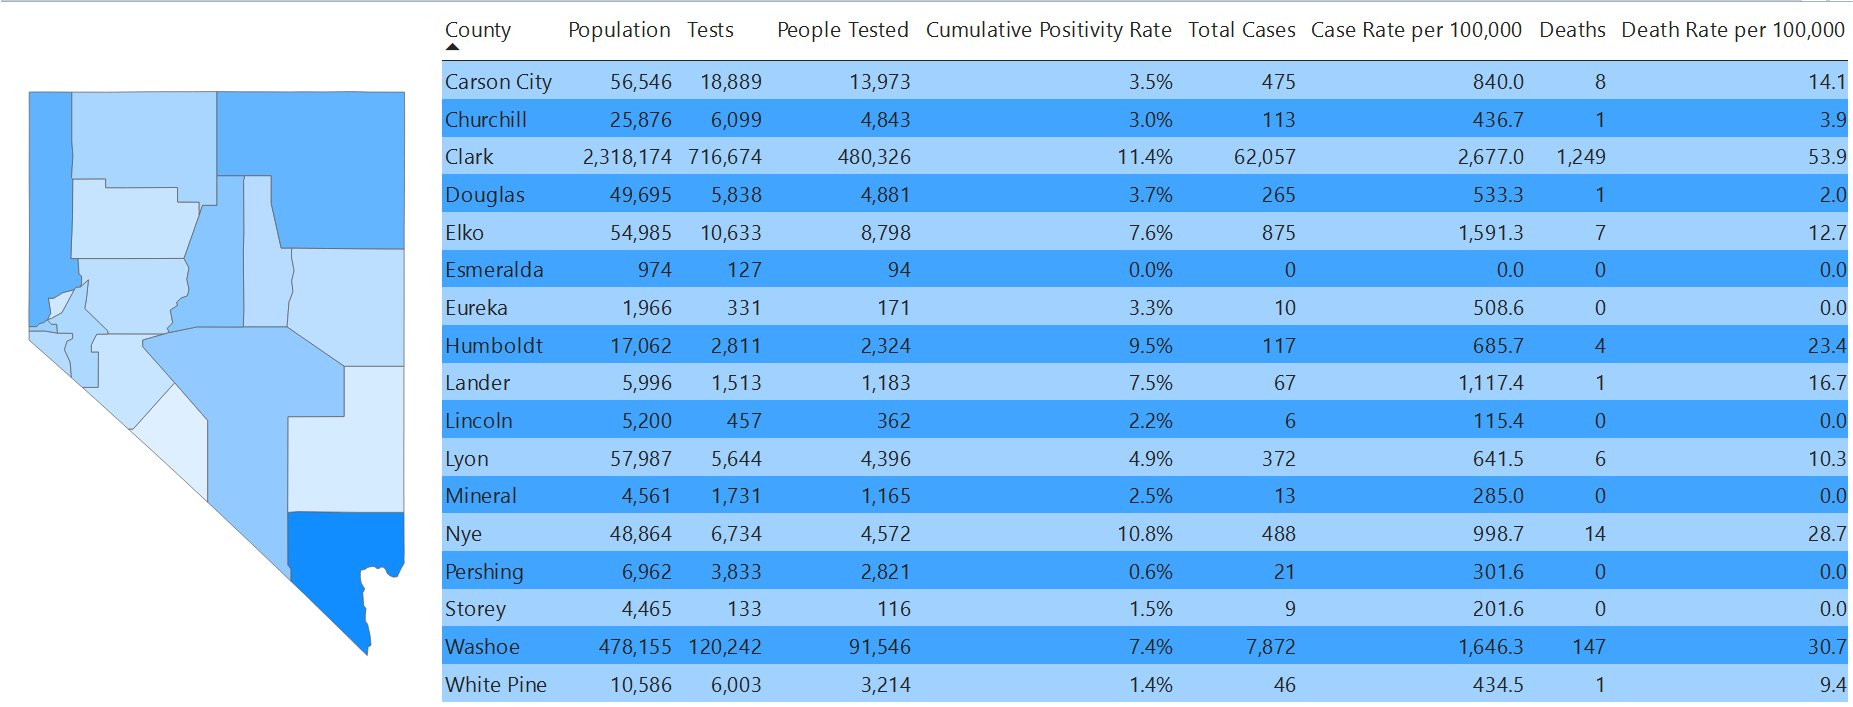
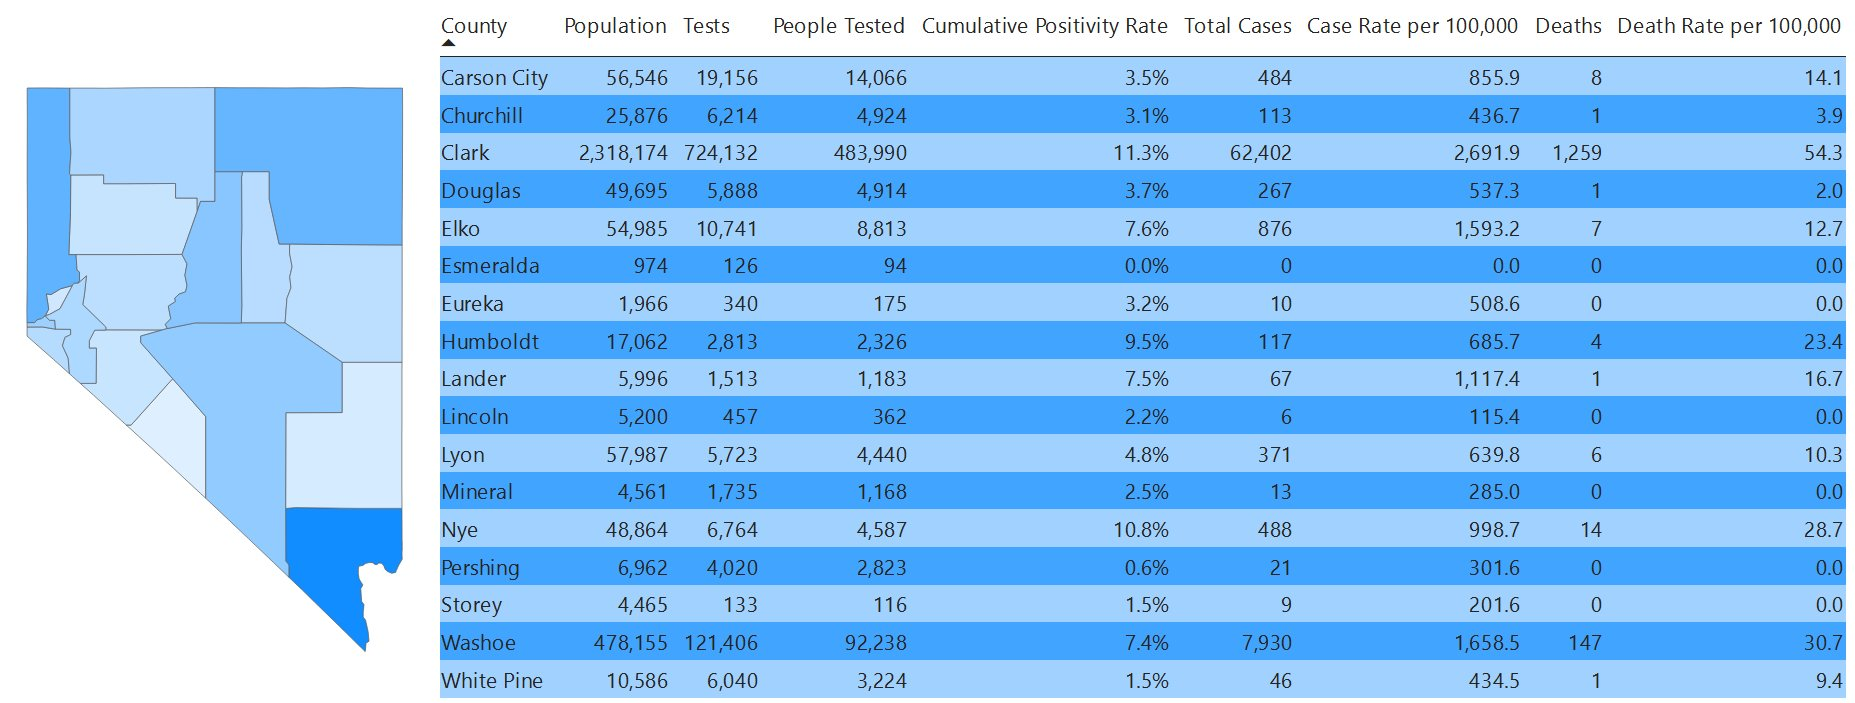
Day 192

diff --git a/src/pages/nevada.js b/src/pages/nevada.js
@@ -205,6 +205,7 @@ class NevadaPage extends Component {
 				'9/08/20',
 				'9/09/20',
 				'9/10/20',
+				'9/11/20',
 			],
 			datasets: [
 				{
@@ -401,6 +402,7 @@ class NevadaPage extends Component {
 						72258,
 						72546,
 						72806,
+						73220,
 					],
 					fill: false, // Don't fill area under the line
 					backgroundColor: '#933A16', // Line color
@@ -600,6 +602,7 @@ class NevadaPage extends Component {
 				'9/08/20',
 				'9/09/20',
 				'9/10/20',
+				'9/11/20',
 			],
 			datasets: [
 				{
@@ -797,6 +800,7 @@ class NevadaPage extends Component {
 						154,
 						288,
 						260,
+						414,
 					],
 					fill: false, // Don't fill area under the line
 					backgroundColor: '#933A16', // Bar color
@@ -996,6 +1000,7 @@ class NevadaPage extends Component {
 				'9/08/20',
 				'9/09/20',
 				'9/10/20',
+				'9/11/20',
 			],
 			datasets: [
 				{
@@ -1180,18 +1185,19 @@ class NevadaPage extends Component {
 						1340,
 						1347,
 						1356,
-						1366,
-						1380,
-						1386,
-						1400,
-						1407,
-						1417,
-						1420,
-						1425,
-						1430,
-						1437,
-						1437,
-						1437,
+						1367,
+						1381,
+						1388,
+						1402,
+						1409,
+						1421,
+						1424,
+						1429,
+						1435,
+						1443,
+						1444,
+						1447,
+						1449,
 					],
 					backgroundColor: 'maroon',
 				},
@@ -1379,6 +1385,7 @@ class NevadaPage extends Component {
 				'9/08/20',
 				'9/09/20',
 				'9/10/20',
+				'9/11/20',
 			],
 			datasets: [
 				{
@@ -1552,18 +1559,19 @@ class NevadaPage extends Component {
 						11,
 						7,
 						9,
-						10,
-						14,
-						6,
+						11,
 						14,
 						7,
-						10,
+						14,
+						7,
+						12,
 						3,
 						5,
-						5,
-						7,
-						0,
-						0,
+						6,
+						8,
+						1,
+						3,
+						2,
 					],
 				},
 			],
@@ -1762,6 +1770,7 @@ class NevadaPage extends Component {
 				'9/08/20',
 				'9/09/20',
 				'9/10/20',
+				'9/11/20',
 			],
 			datasets: [
 				{
@@ -1954,6 +1963,7 @@ class NevadaPage extends Component {
 						10.4,
 						10.4,
 						10.4,
+						10.3,
 						10.3,
 						10.3,
 						10.3,
@@ -2155,10 +2165,11 @@ class NevadaPage extends Component {
 						8.1,
 						7.7,
 						7.2,
+						7.1,
+						7.1,
+						6.9,
 						7.2,
-						7.2,
-						7.3,
-						7.7,
+						7.9,
 						null,
 					],
 				},
@@ -2236,6 +2247,7 @@ class NevadaPage extends Component {
 						null,
 						null,
 						null,
+						11.0,
 						11.0,
 						11.0,
 						11.0,
@@ -2560,6 +2572,7 @@ class NevadaPage extends Component {
 						6.1,
 						6.1,
 						6.1,
+						6.1,
 					],
 				},
 			],
@@ -2595,8 +2608,8 @@ class NevadaPage extends Component {
 										</div>
 									</div>
 									<div className='card-value pt-4'>
-										<h1>632,668</h1>
-										<h2 className='is_salmon'>+ 6,078</h2>
+										<h1>637,308</h1>
+										<h2 className='is_salmon'>+ 4,640</h2>
 									</div>
 								</div>
 							</div>
@@ -2608,8 +2621,8 @@ class NevadaPage extends Component {
 										</div>
 									</div>
 									<div className='card-value pt-4'>
-										<h1>560,476</h1>
-										<h2 className='is_salmon'>+ 5,703</h2>
+										<h1>564,682</h1>
+										<h2 className='is_salmon'>+ 4,206</h2>
 									</div>
 								</div>
 							</div>
@@ -2621,8 +2634,8 @@ class NevadaPage extends Component {
 										</div>
 									</div>
 									<div className='card-value pt-4'>
-										<h1>72,806</h1>
-										<h2 className='is_salmon'>+ 260</h2>
+										<h1>73,220</h1>
+										<h2 className='is_salmon'>+ 414</h2>
 									</div>
 								</div>
 							</div>
@@ -2634,8 +2647,8 @@ class NevadaPage extends Component {
 										</div>
 									</div>
 									<div className='card-value pt-4'>
-										<h1>1,437</h1>
-										<h2 className='is_salmon'>+ 10</h2>
+										<h1>1,449</h1>
+										<h2 className='is_salmon'>+ 15</h2>
 									</div>
 								</div>
 							</div>

diff --git a/src/pages/clarkcounty.js b/src/pages/clarkcounty.js
@@ -207,6 +207,7 @@ class ClarkPage extends Component {
 				'9/08/20',
 				'9/09/20',
 				'9/10/20',
+				'9/11/20',
 			],
 			datasets: [
 				{
@@ -404,6 +405,7 @@ class ClarkPage extends Component {
 						61642,
 						61871,
 						62057,
+						62402,
 					],
 				},
 			],
@@ -602,6 +604,7 @@ class ClarkPage extends Component {
 				'9/08/20',
 				'9/09/20',
 				'9/10/20',
+				'9/11/20',
 			],
 			datasets: [
 				{
@@ -799,6 +802,7 @@ class ClarkPage extends Component {
 						99,
 						229,
 						186,
+						345,
 					],
 				},
 			],
@@ -977,6 +981,7 @@ class ClarkPage extends Component {
 				'9/08/20',
 				'9/09/20',
 				'9/10/20',
+				'9/11/20',
 			],
 			datasets: [
 				{
@@ -1154,6 +1159,7 @@ class ClarkPage extends Component {
 						5345,
 						5431,
 						5488,
+						5570,
 					],
 				},
 			],
@@ -1331,6 +1337,7 @@ class ClarkPage extends Component {
 				'9/08/20',
 				'9/09/20',
 				'9/10/20',
+				'9/11/20',
 			],
 			datasets: [
 				{
@@ -1508,6 +1515,7 @@ class ClarkPage extends Component {
 						99,
 						86,
 						57,
+						82,
 					],
 				},
 			],
@@ -1706,6 +1714,7 @@ class ClarkPage extends Component {
 				'9/08/20',
 				'9/09/20',
 				'9/10/20',
+				'9/11/20',
 			],
 			datasets: [
 				{
@@ -1902,6 +1911,7 @@ class ClarkPage extends Component {
 						1223,
 						1240,
 						1244,
+						1259,
 					],
 					backgroundColor: 'maroon',
 				},
@@ -2089,6 +2099,7 @@ class ClarkPage extends Component {
 				'9/08/20',
 				'9/09/20',
 				'9/10/20',
+				'9/11/20',
 			],
 			datasets: [
 				{
@@ -2274,6 +2285,7 @@ class ClarkPage extends Component {
 						17,
 						17,
 						4,
+						15,
 					],
 				},
 			],
@@ -2472,6 +2484,7 @@ class ClarkPage extends Component {
 				'9/08/20',
 				'9/09/20',
 				'9/10/20',
+				'9/11/20',
 			],
 			datasets: [
 				{
@@ -2668,6 +2681,7 @@ class ClarkPage extends Component {
 						7.8,
 						7.9,
 						8.1,
+						7.9,
 						null,
 						null,
 						null,
@@ -2746,6 +2760,7 @@ class ClarkPage extends Component {
 						null,
 						null,
 						null,
+						6.9,
 						6.9,
 						6.9,
 						6.9,
@@ -3072,6 +3087,7 @@ class ClarkPage extends Component {
 						3.9,
 						3.9,
 						3.9,
+						3.9,
 					],
 				},
 			],
@@ -3142,8 +3158,8 @@ class ClarkPage extends Component {
 											</div>
 										</div>
 										<div className='card-value pt-4'>
-											<h1>62,057</h1>
-											<h2 className='is_salmon'>+ 186</h2>
+											<h1>62,402</h1>
+											<h2 className='is_salmon'>+ 345</h2>
 										</div>
 									</div>
 								</div>
@@ -3155,8 +3171,8 @@ class ClarkPage extends Component {
 											</div>
 										</div>
 										<div className='card-value pt-4'>
-											<h1>5,488</h1>
-											<h2 className='is_salmon'>+ 57</h2>
+											<h1>5,570</h1>
+											<h2 className='is_salmon'>+ 82</h2>
 										</div>
 									</div>
 								</div>
@@ -3181,8 +3197,8 @@ class ClarkPage extends Component {
 											</div>
 										</div>
 										<div className='card-value pt-4'>
-											<h1>1,244</h1>
-											<h2 className='is_salmon'>+ 4</h2>
+											<h1>1,259</h1>
+											<h2 className='is_salmon'>+ 15</h2>
 										</div>
 									</div>
 								</div>
